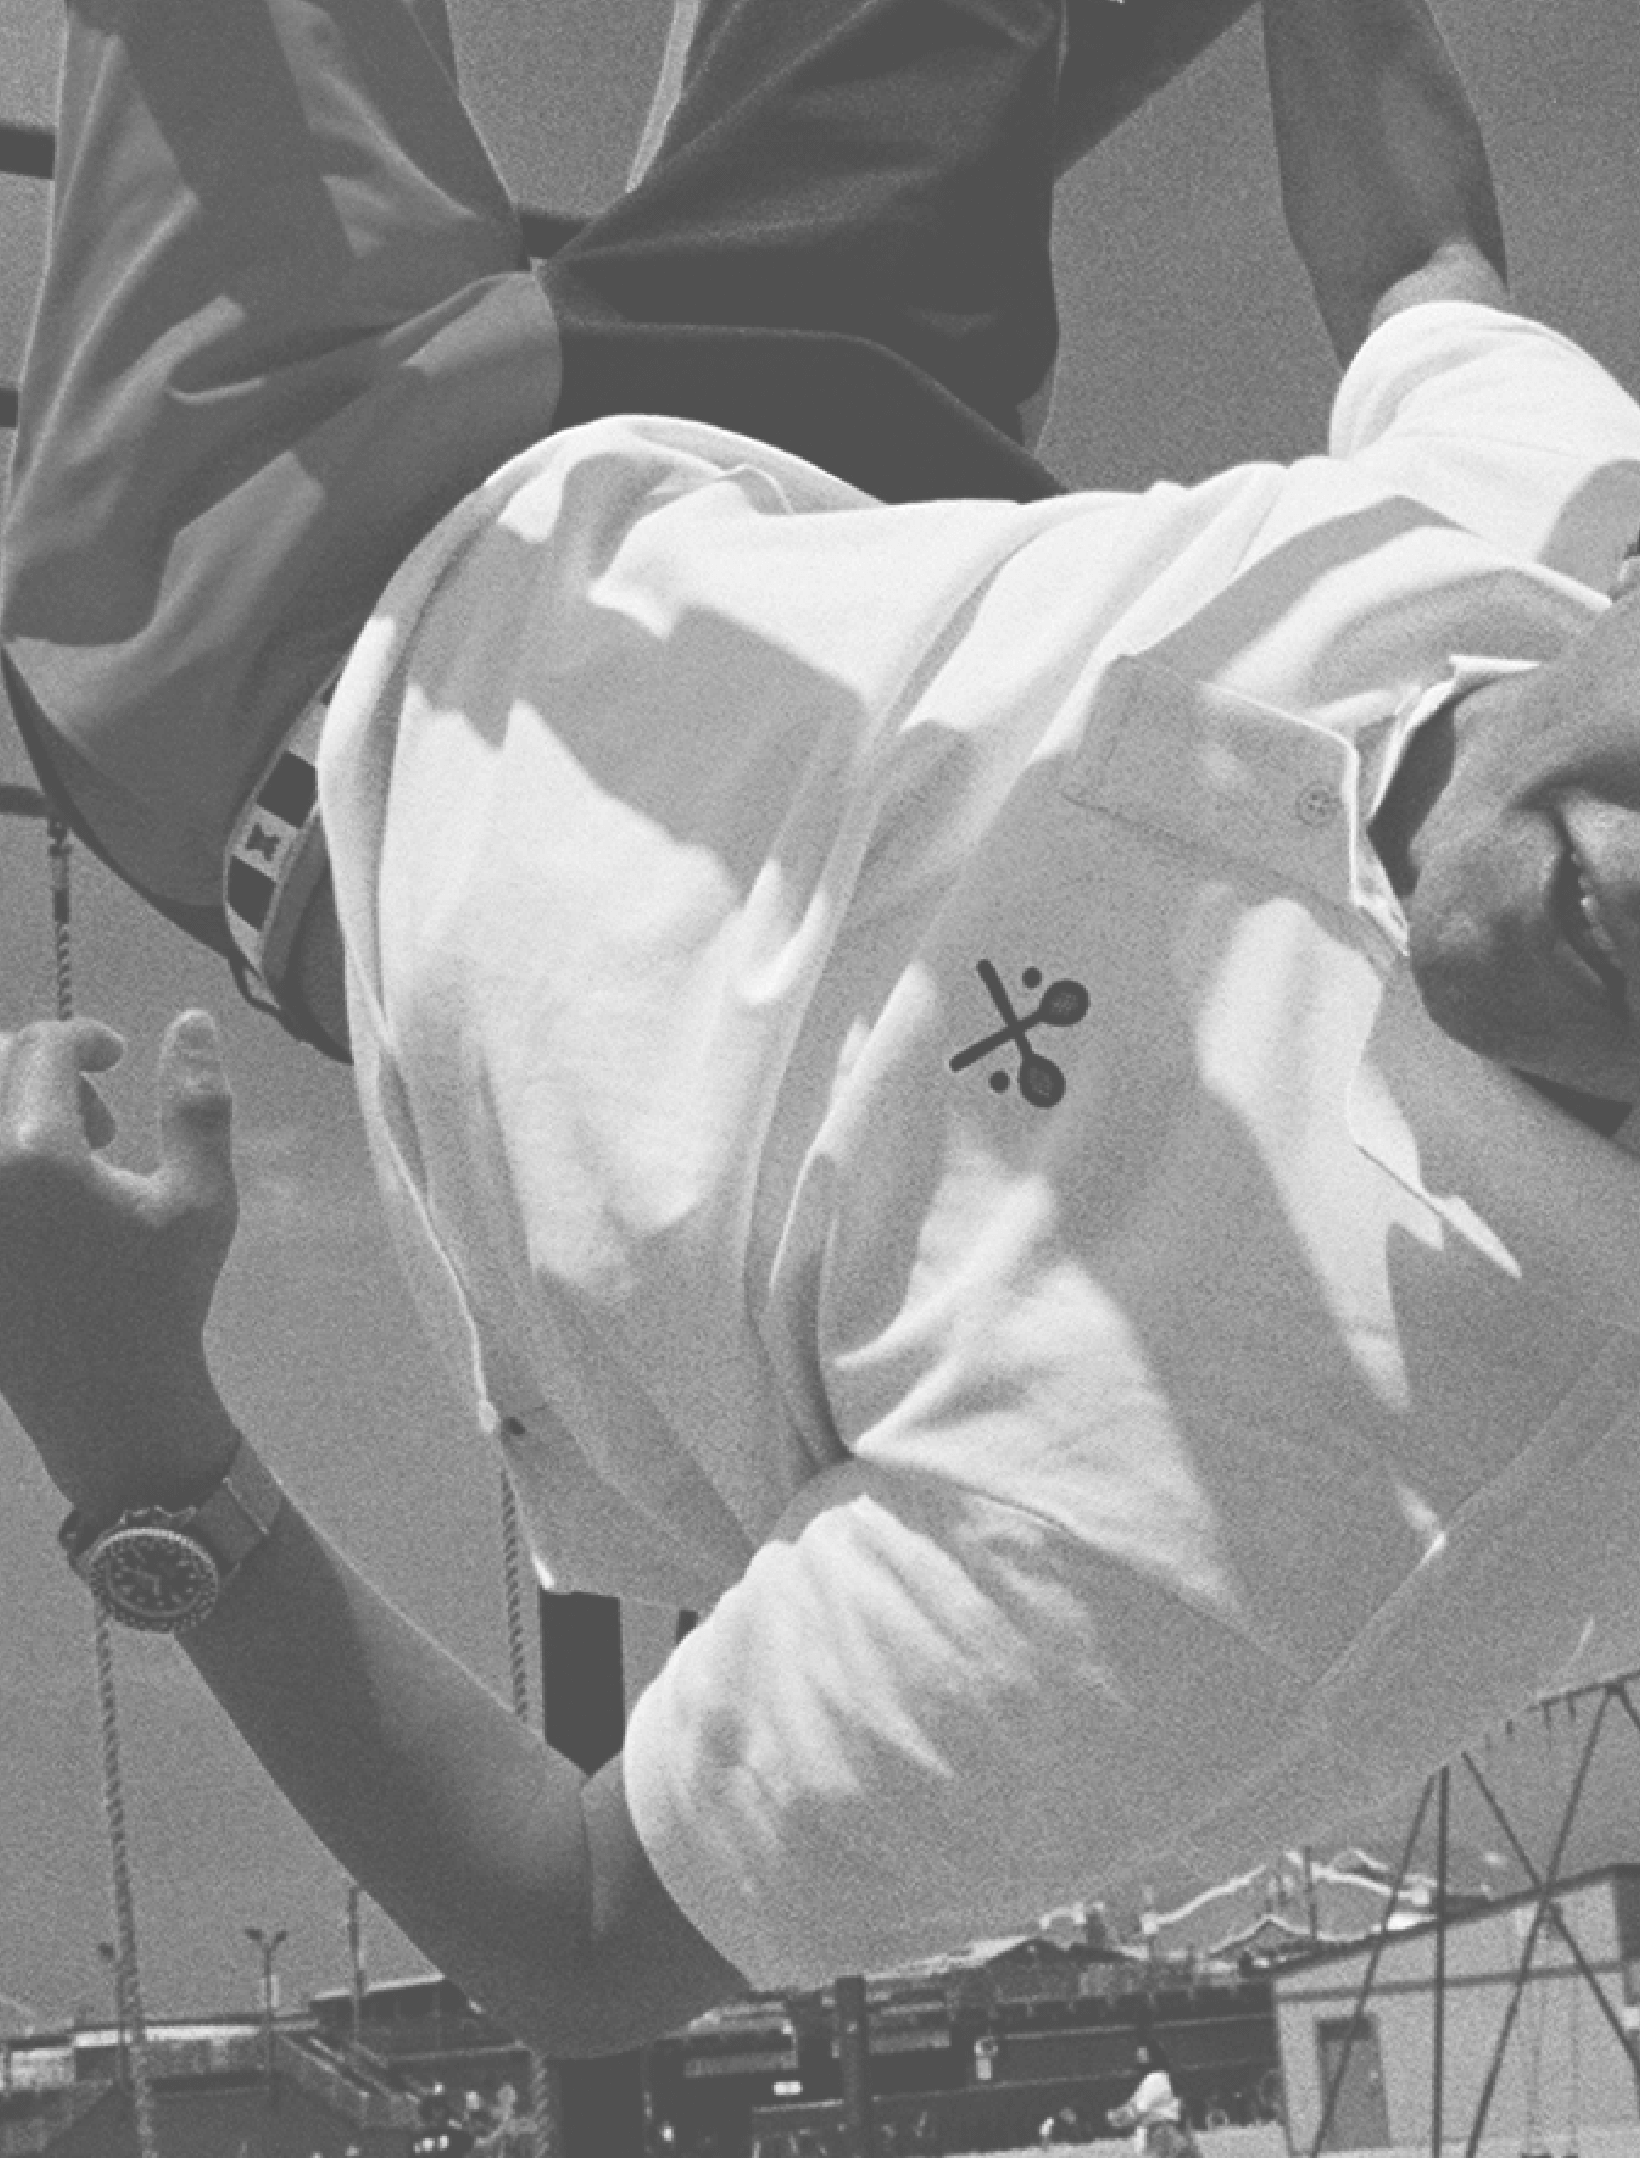
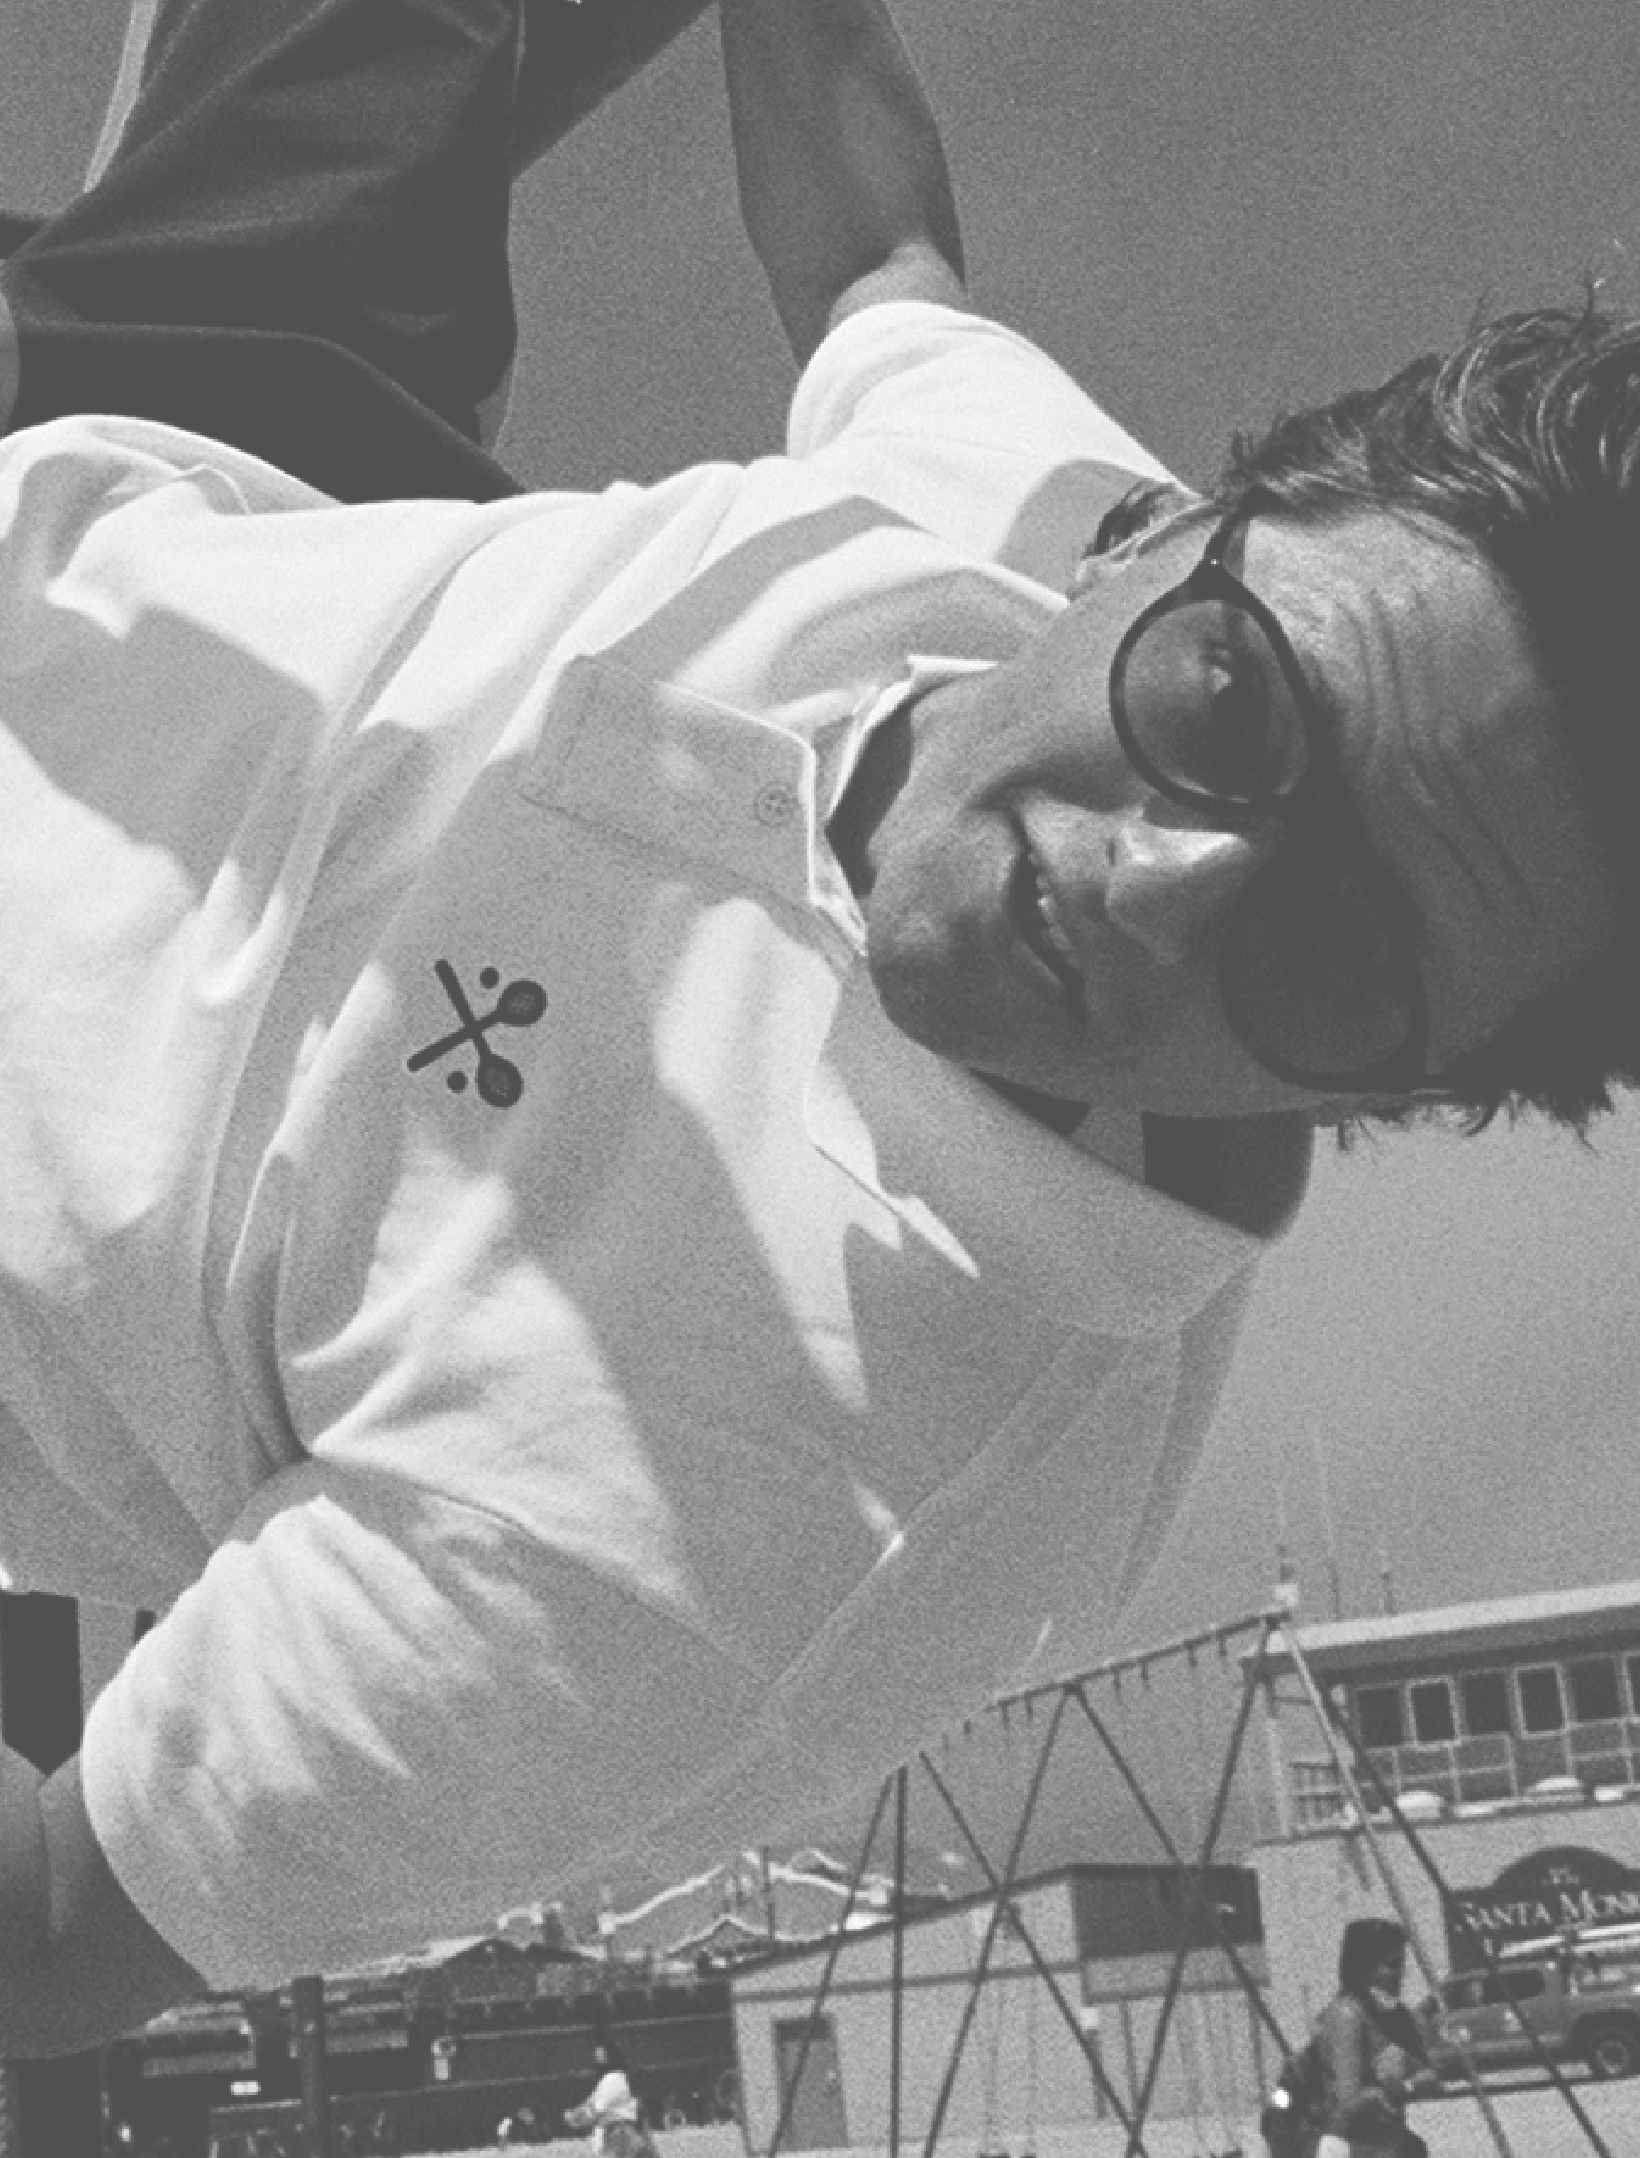
adjusted images and optimized flow

diff --git a/src/pages/home/home.js b/src/pages/home/home.js
@@ -86,11 +86,11 @@ const Home = () => {
   const vennDiagramEntrance = (e) => {
 
     const transitionMarker = vennDigramAnimationMarker && vennDigramAnimationMarker.current;
-    const transitionMarkerBounds = transitionMarker.getBoundingClientRect();
+    const transitionMarkerBounds = transitionMarker?.getBoundingClientRect();
 
     const element = vennDiagramRef && vennDiagramRef.current;
 
-    if(window.innerHeight / 2.5 >= transitionMarkerBounds.y) {
+    if(transitionMarkerBounds && window.innerHeight / 2.5 >= transitionMarkerBounds.y) {
       if(!element.querySelector(".logo").classList.contains("active")) {
         element.querySelector(".logo").classList.add("active");
       }

diff --git a/src/pages/investments/investments.js b/src/pages/investments/investments.js
@@ -7,7 +7,7 @@ import Wilde from "../../assets/img/wilde.png";
 // hero images
 import WILDE_HERO from "../../assets/img/wilde-masterImage.png";
 import ROWINGBLAZERS_HERO from "../../assets/img/rowingBlazers-masterImage.png";
-import KOIA_HERO from "../../assets/img/investment-tile.png";
+import KOIA_HERO from "../../assets/img/koia-masterImage.png";
 import FRECK_HERO from "../../assets/img/freck-masterImage.png";
 
 import PropertiesLayout from "../../components/propertiesLayout";
